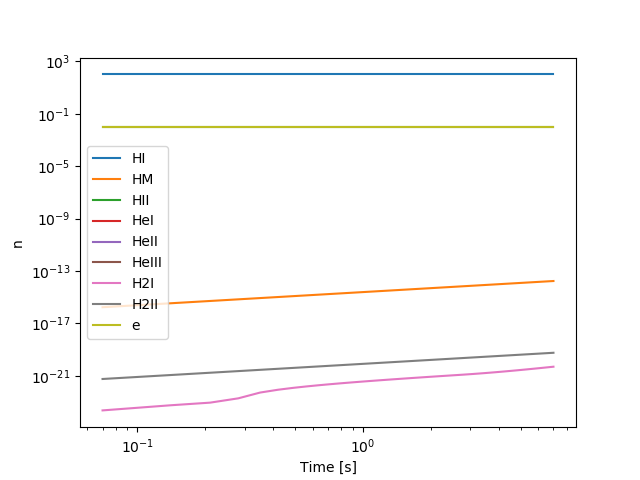
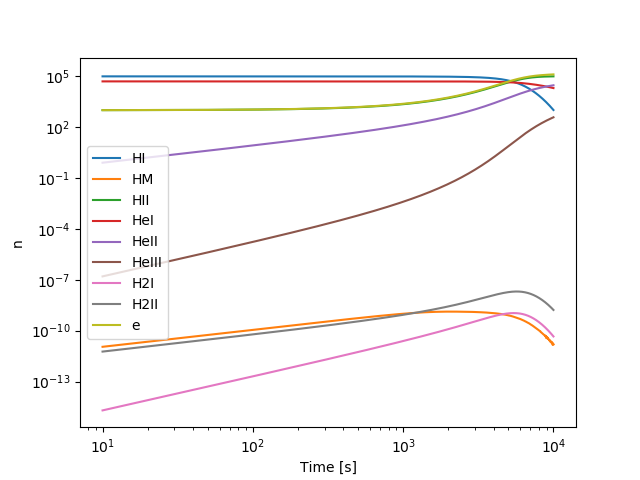
Played with settings

diff --git a/Solver.py b/Solver.py
@@ -8,8 +8,9 @@ def updater(t, state):
     HI = state[0]; HM = state[1]; HII = state[2]; HeI = state[3]
     HeII = state[4]; HeIII = state[5]; H2I = state[6]; H2II = state[7]
 
+    e = state[8]
     #Recompute number of electrons every timestep
-    e = HII + HeII + 2*HeIII + H2II - HM
+    #e = HII + HeII + 2*HeIII + H2II - HM
 
     T = state[9]
 
@@ -34,25 +35,29 @@ def updater(t, state):
     #"...since we have charge conservation, you don't *need* to solve the RHS for electron.
     #You can supply the RHS for e- as 0, and then recompute what the n_e is
     #every timestep instead (and use that as input to your RHS calculators)..."
-    dedt = 0
+
+    dedt = dHIIdt + dHeIIdt + 2*dHeIIIdt + dH2IIdt - dHMdt
 
     #TODO update temperature using gas laws
     dTdt = 0
 
-    return np.array([dHIdt, dHMdt, dHIIdt, dHeIdt, dHeIIdt, dHeIIIdt,
+    ret = np.array([dHIdt, dHMdt, dHIIdt, dHeIdt, dHeIIdt, dHeIIIdt,
                     dH2Idt, dH2IIdt, dedt, dTdt])
 
+    #print(state)
+    return ret
 
-n_total = 2
-e_frac = -4
-T = np.log10(15000)
-final_t = 7
-safety_factor = 100
+
+n_total = 5
+e_frac = -2
+T = np.log10(150000)
+final_t = 10000
+safety_factor = 1000
 
 n_HI_initial = 10**n_total * (1.0 - 10**e_frac)
 n_HM_initial = 0
 n_HII_initial = 10**n_total * 10**e_frac
-n_HeI_initial = 0
+n_HeI_initial = 10**n_total *.5
 n_HeII_initial = 0
 n_HeIII_initial = 0
 n_H2I_initial = 0
@@ -68,6 +73,7 @@ integrator.set_initial_value(state_vector, t=0)
 state_vector_values = []
 ts = []
 dt = final_t / safety_factor
+
 ts.append(integrator.t)
 state_vector_values.append(integrator.y)
 while integrator.t < final_t:
